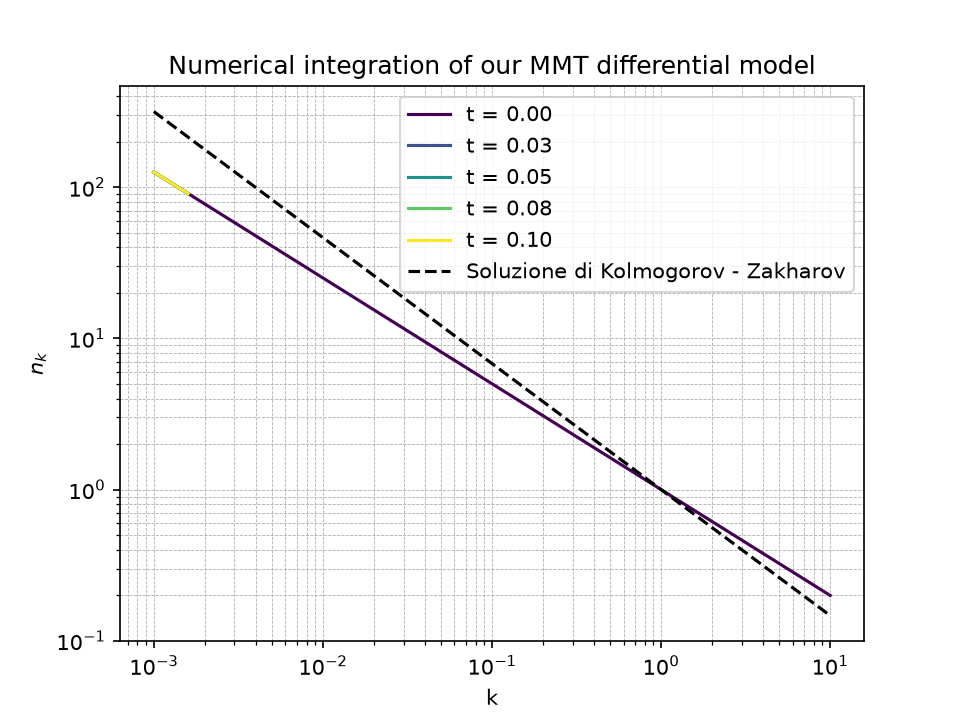
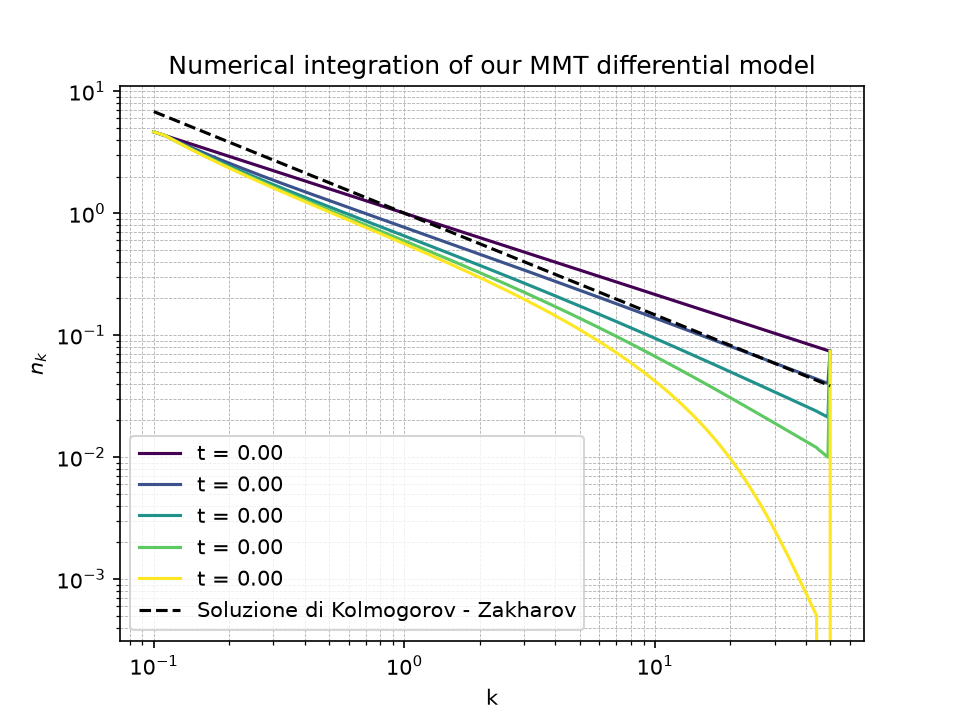
Refactor main script: update integration parameters and enhance output validation; adjust plotting function to use new results format

diff --git a/DAM.py b/DAM.py
@@ -20,15 +20,12 @@ def dndk_upwind(n, k, dlnk):
 
 def d2ndk2_center(n, k, dlnk):
 
+    M = np.zeros_like(n)
+    M[1:] = (n[1:] - n[:-1]) / dlnk
     d2n_dlnk2 = np.zeros_like(n)
-    dn_dlnk = np.zeros_like(n)
+    d2n_dlnk2[1:-1] = (n[2:] - 2 * n[1:-1] + n[:-2]) / dlnk ** 2
 
-    dn_dlnk = dndk_upwind(n, k, dlnk)*k
-    d2n_dlnk2[1:-1] = (n[2:] - 2 * n[1:-1] + n[:-2]) / (dlnk**2)
-
-    d2n_dk2 = (d2n_dlnk2 - dn_dlnk) / (k**2)
-
-    return d2n_dk2
+    return (d2n_dlnk2 - M) / (k**2)
 
 
 def apply_bc(n, k, n_left_fix, buf_left = 6, buf_right = 6, fit_points = 2):
@@ -36,6 +33,7 @@ def apply_bc(n, k, n_left_fix, buf_left = 6, buf_right = 6, fit_points = 2):
     n = n.copy()
 
     n[:buf_left] = n_left_fix
+
     idx_fit = slice(-(buf_right + fit_points), -buf_right)
     log_k_fit = np.log(k[idx_fit])
     log_n_fit = np.log(n[idx_fit])
@@ -50,6 +48,7 @@ def apply_bc(n, k, n_left_fix, buf_left = 6, buf_right = 6, fit_points = 2):
 def rhs(t, n, k, n_left_fix, dlnk , eta1, eta2):
 
     n = apply_bc(n, k, n_left_fix, buf_left = 6, buf_right = 6, fit_points = 4)
+    n = np.maximum(n, 1e-10)
 
     dndk = dndk_upwind(n, k, dlnk)
     d2ndk2 = d2ndk2_center(n, k, dlnk)
@@ -103,7 +102,7 @@ def integrate(rhs, n0, t_span, dt, k, n_left_fix, dlnk , eta1, eta2):
     for _ in range(n_step):
         #n = rk4_step(rhs, t, n, dt, k, n_left_fix, dlnk , eta1, eta2)
         n = crank_nicolson_step(rhs, t, n, dt, k, n_left_fix, dlnk , eta1, eta2, n_iter = 4)
-        n = np.maximum(n, 1e-2)
+        n = np.maximum(n, 1)
 
         t += dt
         ts.append(t)

diff --git a/main_DAM.py b/main_DAM.py
@@ -1,15 +1,29 @@
 import numpy as np
 from DAM import integrate, plot_results, k_space, initial_condition, rhs
+from scipy.integrate import solve_ivp
 
 eta1 = 216
 eta2 = 162
 
-k, dlnk = k_space(1e-3, 10, 100)
-
-n_k = initial_condition(1.0, k, -7/10)
-
+k, dlnk = k_space(1e-1, 50, 300)
+n_k = initial_condition(1.0, k, -2/3)
 n_left_fix = n_k[:6].copy()
 
-ts, ns = integrate(rhs, n_k, (0.0, 0.1),  1e-6, k, n_left_fix, dlnk, eta1, eta2)
+print("Test valutazione singola del rhs:")
+r0 = rhs(0, n_k, k, n_left_fix, dlnk, eta1, eta2)
+print("max |rhs| iniziale:", np.max(np.abs(r0)))
+print("rhs finito ovunque:", np.all(np.isfinite(r0)))
 
-plot_results(ts, ns, n_snap = 5, k = k, save_path = "outputs_DAM/DAM_results.png", show = False)
+t_eval = np.linspace(0.0, 0.1, 100001)
+
+ns = solve_ivp(rhs, (0, t_eval[-1]), n_k, args=(k, n_left_fix, dlnk, eta1, eta2),
+                 method="BDF", t_eval=t_eval, rtol=1e-6, atol=1e-10)
+
+print("successo:", ns.success, ns.message)
+print("positiva ovunque:", np.all(ns.y > 0))
+print("finito ovunque:", np.all(np.isfinite(ns.y)))
+
+#ts, ns = integrate(rhs, n_k, (0.0, 0.1),  1e-6, k, n_left_fix, dlnk, eta1, eta2)
+
+#plot_results(ts, ns, n_snap = 5, k = k, save_path = "outputs_DAM/DAM_results.png", show = False)
+plot_results(ns.t, ns.y.T, n_snap = 5, k = k, save_path = "outputs_DAM/DAM_results.png", show = False)
